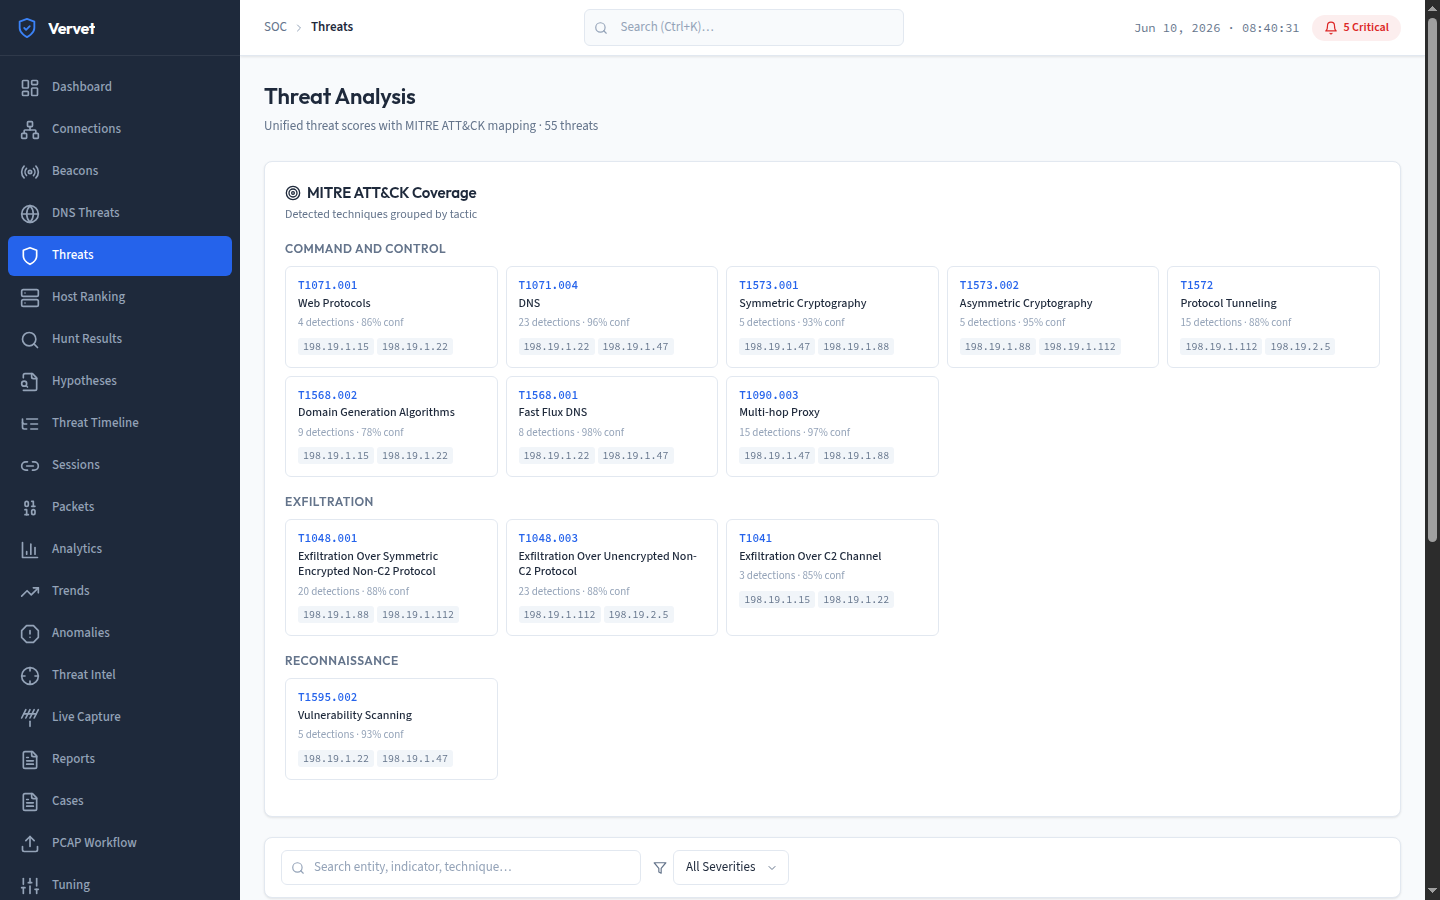
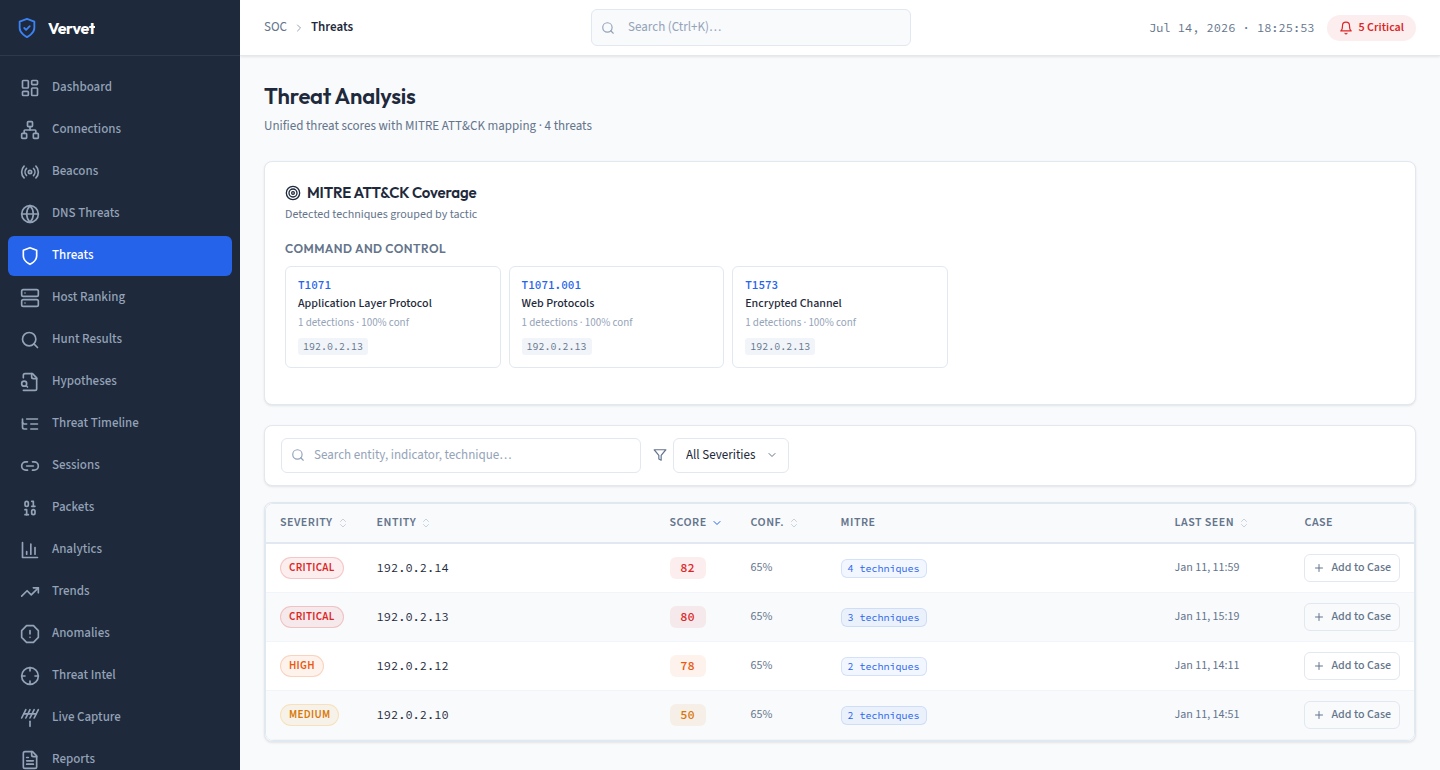
docs: regenerate screenshots from real data, swap dashboard for DNS
The README screenshots showed the old mock UI. Recapture threats and
beacons from the real backend (beacons now includes the fixed scatter),
and replace the dashboard shot with the DNS threat page. The dashboard's
stat-card grid relies on Tailwind utilities that aren't generated yet
(content globs point at a nonexistent ./src), so it renders stacked; the
DNS page is inline-styled and shows real detections cleanly.

diff --git a/README.md b/README.md
@@ -38,7 +38,7 @@ Vervet is for blue teams, SOC analysts, and MSSPs who run Zeek or Suricata and w
 
 <p align="center">
   <img src="docs/assets/screenshots/threats.png" width="49%" alt="Per-host threat scoring mapped to MITRE ATT&CK by tactic">
-  <img src="docs/assets/screenshots/dashboard.png" width="49%" alt="SOC dashboard overview">
+  <img src="docs/assets/screenshots/dns.png" width="49%" alt="DNS threat detection: tunneling, DGA, and suspicious query patterns">
 </p>
 
 <p align="center"><sub>Demo data: real Zeek logs (sanitized) with a synthetic C2 beacon and DNS-tunnel scenario layered in. Every address is an RFC 5737 / RFC 2544 documentation range.</sub></p>